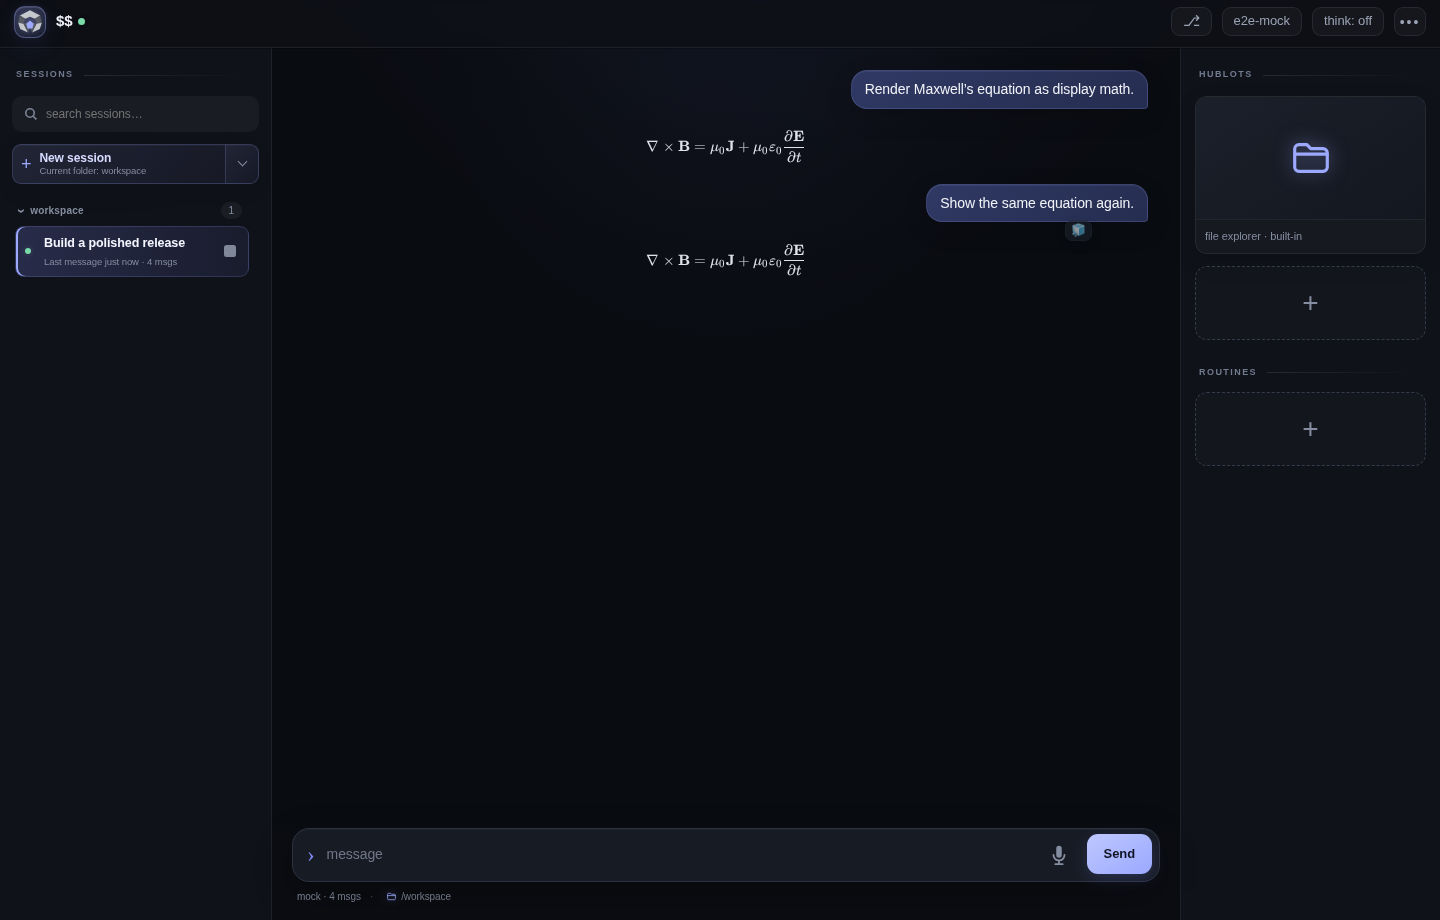
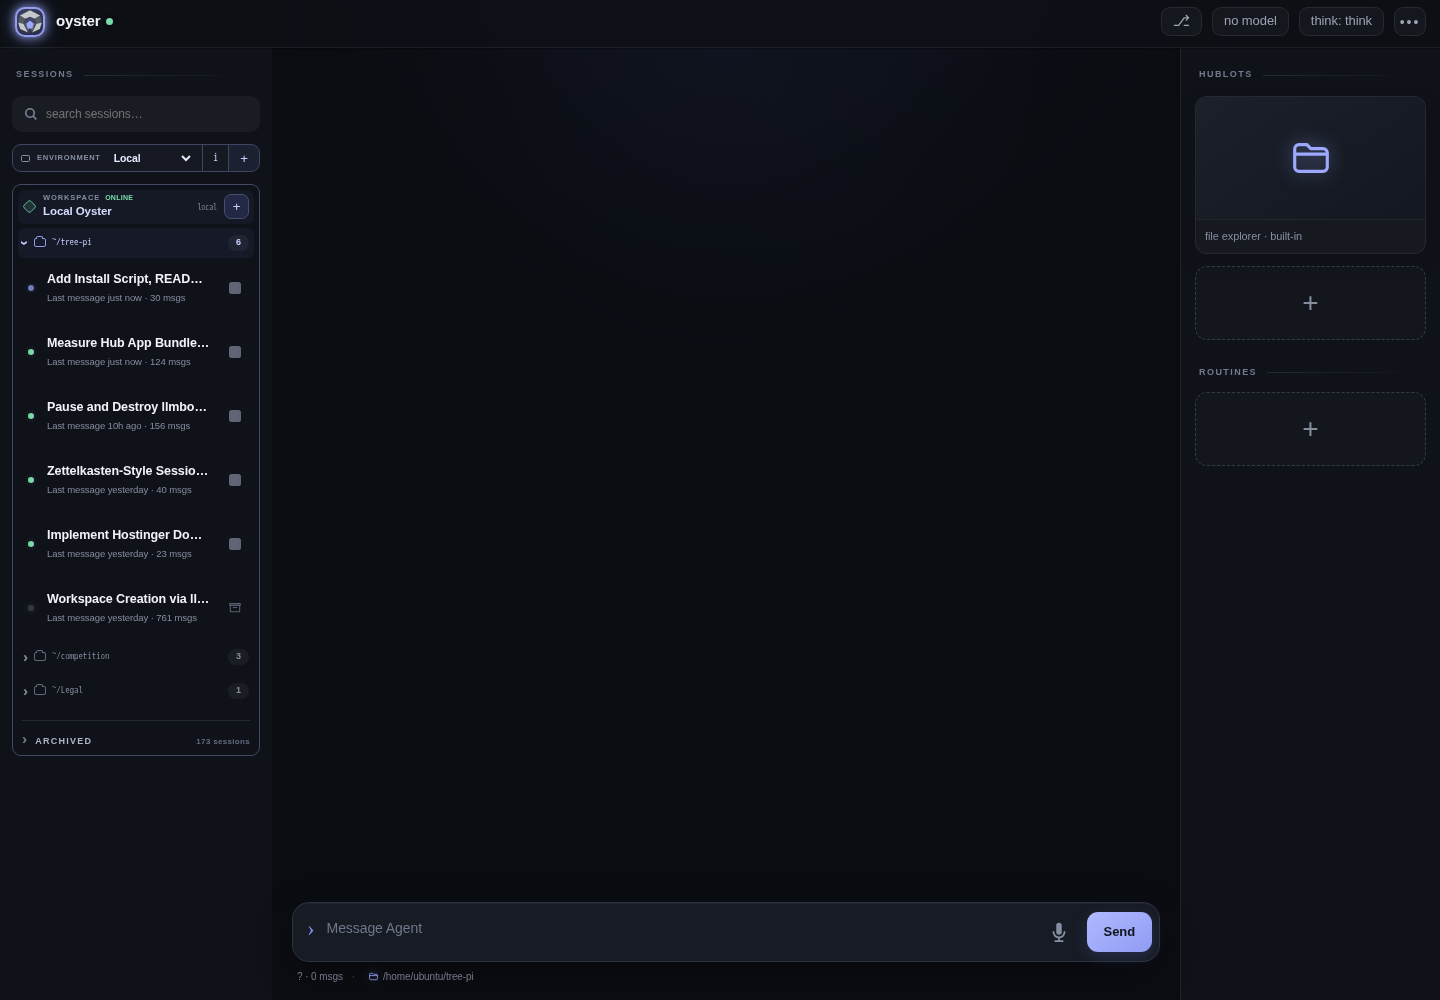
Improve server installation documentation

diff --git a/README.md b/README.md
@@ -1,7 +1,7 @@
 <h1 align="center"><img src="public/src/assets/oyster.svg" width="48" alt="Oyster logo" align="absmiddle"> Oyster</h1>
 
 <p align="center">
-  Run the <a href="https://github.com/badlogic/pi-mono">pi coding agent</a> from any browser.
+  Generalist work agents, available from any browser.
 </p>
 
 <p align="center">
@@ -14,7 +14,74 @@
   <img src="docs/images/oyster-desktop.png" alt="Oyster desktop workspace" width="100%">
 </p>
 
-Oyster is a responsive web workspace for pi. Follow agent sessions in real time, inspect tool calls, move between projects, manage files, and keep long-running work within reach from desktop or mobile.
+Oyster is a responsive web workspace for the [pi coding agent](https://github.com/badlogic/pi-mono). Follow agent sessions in real time, inspect tool calls, move between projects, manage files, and keep long-running work within reach from desktop or mobile.
+
+## Philosophy
+
+- **Mobile first.** Oyster is designed for starting, steering, and reviewing real work from a phone—not merely shrinking a desktop chat UI.
+- **Generalist work agents.** Agents get a persistent workspace, files, a shell, routines, and shareable interfaces so they can carry a task from research through implementation and operation.
+- **Security through isolation.** Tool-using agents execute untrusted code and should not share a host with sensitive workloads. Production workspaces belong in dedicated VMs or hardware-isolated microVMs, with scoped credentials and network access. A standalone Oyster install has the permissions of its Unix user, so run it inside a dedicated VM; Oyster Hub can provision a separate cloud VM or llmbox microVM for each workspace.
+
+## Get started on a server
+
+The installer targets a fresh **Debian or Ubuntu** server on amd64 or arm64. Use a non-root deployment user with `sudo`, and run the server itself in a dedicated VM.
+
+```bash
+sudo apt-get update && sudo apt-get install -y git ca-certificates
+git clone --recurse-submodules https://github.com/SergeiKireevDev/oyster.git
+cd oyster
+./scripts/install.sh
+```
+
+The idempotent installer:
+
+1. installs Git, build tools, Node.js 22 when needed, and `cloudflared` for hublots;
+2. initializes the bundled pi source and installs both lockfiles independently;
+3. builds pi and the Oyster UI, then runs the full test suite;
+4. registers Oyster's pi extensions and creates `~/oyster-workspace`;
+5. generates `.ui-token` with owner-only permissions; and
+6. enables a persistent `pi-ui.service` systemd user service on `127.0.0.1:8080`.
+
+Verify the local service:
+
+```bash
+curl --fail http://127.0.0.1:8080/health
+systemctl --user status pi-ui.service
+journalctl --user -u pi-ui.service -f
+```
+
+### Add secure remote access
+
+Oyster can run tools, edit files, and manage credentials. Treat access like shell access. **Never publish port 8080 directly**: the bearer token authenticates requests but does not encrypt them.
+
+1. Point a DNS name at the server.
+2. Terminate valid HTTPS with Caddy, nginx, Cloudflare Tunnel, or another trusted reverse proxy.
+3. Proxy to `http://127.0.0.1:8080`, preserving streaming and WebSocket connections. For example, a Caddy site is:
+
+   ```caddyfile
+   oyster.example.com {
+       reverse_proxy 127.0.0.1:8080
+   }
+   ```
+
+4. Keep TCP 8080 closed in the host and cloud firewalls.
+5. Read the token locally with `cat .ui-token`, then open:
+
+   ```text
+   https://oyster.example.com/#token=<TOKEN>
+   ```
+
+   The fragment is captured locally and removed from the address bar. Do not put the token in query strings, logs, screenshots, or issue reports.
+6. Open the credentials panel in Oyster and connect an LLM provider using pi's API-key or OAuth flow.
+
+Installer options and deployment paths:
+
+```bash
+./scripts/install.sh --help       # options and environment overrides
+git pull --ff-only && ./scripts/install.sh  # update and restart safely
+```
+
+See [Installation](docs/getting-started/installation.md), [Configuration](docs/getting-started/configuration.md), [Security](docs/getting-started/security.md), and [container deployment](docs/operations/containers.md) for manual and advanced setups.
 
 ## Highlights
 
@@ -31,8 +98,7 @@ Oyster is a responsive web workspace for pi. Follow agent sessions in real time,
 </p>
 
 <p align="center">
-  <a href="docs/getting-started/installation.md"><strong>Get started</strong></a>
-  · <a href="docs/readme.md">Documentation</a>
+  <a href="docs/readme.md">Documentation</a>
   · <a href="docs/getting-started/security.md">Security</a>
   · <a href="CONTRIBUTING.md">Contributing</a>
 </p>

diff --git a/docs/getting-started/installation.md b/docs/getting-started/installation.md
@@ -6,14 +6,27 @@ tags: install, node, pi
 
 ## Prerequisites
 
+For the automated install, use a Debian or Ubuntu host, a non-root user with `sudo`, and Git (including submodule support). The installer supplies the remaining build dependencies.
+
+For a manual install, provide:
+
 - Node.js **22.19 or newer**
-- Git (including submodule support)
-- A built, executable pi coding agent CLI; the compatible source is bundled as a submodule
+- a built, executable pi coding agent CLI; the compatible source is bundled as a submodule
 - `cloudflared` only if you plan to create public hublots
 
-This repository has no separate install script. Its checked-in lockfile supplies the frontend and test dependencies.
+## Automated server install
 
-## Run from a checkout
+On Debian or Ubuntu, the standalone installer prepares the checkout, builds and tests Oyster, registers its bundled extensions, and installs a persistent systemd user service:
+
+```bash
+git clone --recurse-submodules https://github.com/SergeiKireevDev/oyster.git
+cd oyster
+./scripts/install.sh
+```
+
+It binds Oyster to `127.0.0.1:8080` by default. Keep that port private and put a valid HTTPS reverse proxy in front of it before allowing remote access. Run `./scripts/install.sh --help` for build-only mode, cloudflared control, and listener/workspace overrides.
+
+## Manual install from a checkout
 
 ```bash
 git clone --recurse-submodules <repo-url> oyster
@@ -22,7 +35,8 @@ npm ci
 npm ci --prefix pi --ignore-scripts
 npm run build:pi
 npm run build
-node server/server.mjs
+npm test
+HOST=127.0.0.1 node server/server.mjs
 ```
 
 The development default for `PI_BIN` is the built CLI at `pi/packages/coding-agent/dist/cli.js`. Existing checkouts can initialize it with `git submodule update --init --recursive`. Set `PI_BIN` explicitly to use another compatible build.
